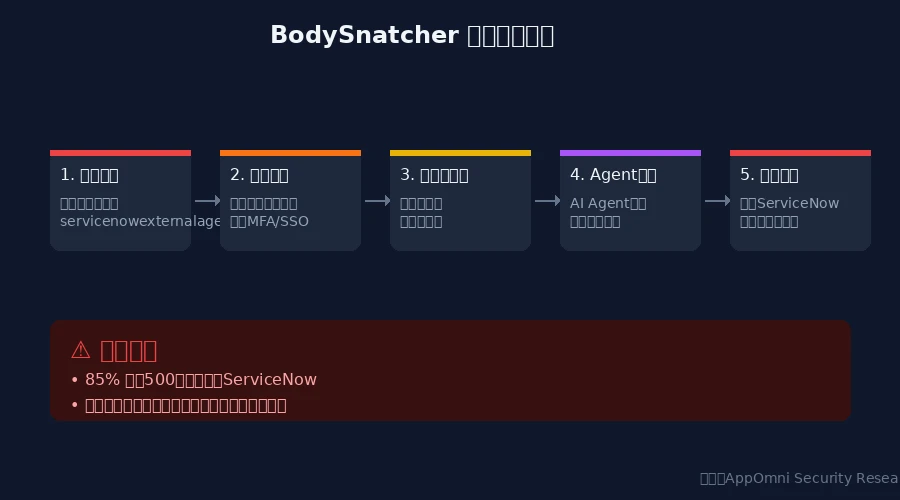
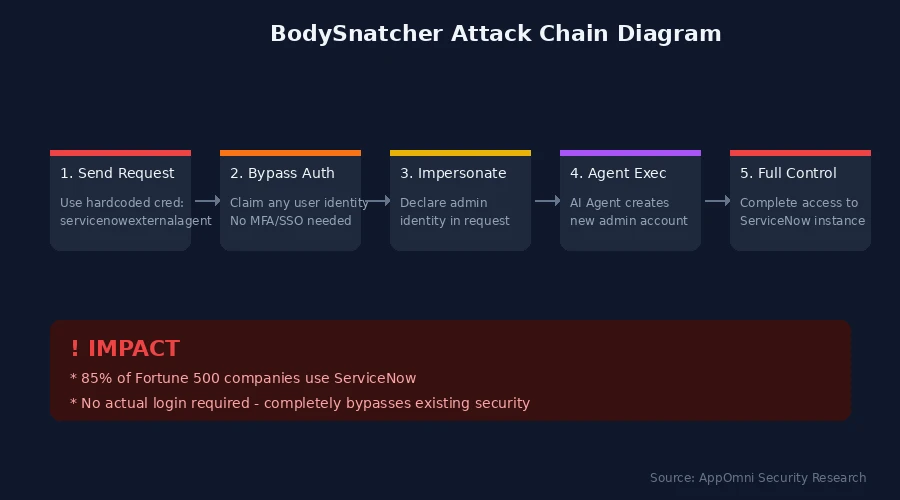
fix: Update article images to use English text
Replace Chinese text with English in all 4 inline images to avoid
character encoding issues:
- BodySnatcher Attack Chain Diagram
- CrowdStrike AI Agent Security Strategy
- Google Universal Commerce Protocol
- AI Agent: Security vs Commerce

diff --git a/scripts/generate_article_images.py b/scripts/generate_article_images.py
@@ -1,5 +1,5 @@
 #!/usr/bin/env python3
-"""Generate inline images for the AI Agent Security & Commerce article."""
+"""Generate inline images for the AI Agent Security & Commerce article - English version."""
 
 from PIL import Image, ImageDraw, ImageFont
 import os
@@ -34,20 +34,20 @@ def create_attack_chain_image():
     img = Image.new('RGB', (width, height), (15, 23, 42))
     draw = ImageDraw.Draw(img)
 
-    font_title = get_font(24)
-    font_text = get_font_regular(16)
-    font_small = get_font_regular(14)
+    font_title = get_font(22)
+    font_text = get_font_regular(14)
+    font_small = get_font_regular(12)
 
     # Title
-    draw.text((width // 2 - 180, 20), "BodySnatcher 攻击链示意图", font=font_title, fill=(241, 245, 249))
+    draw.text((width // 2 - 180, 20), "BodySnatcher Attack Chain Diagram", font=font_title, fill=(241, 245, 249))
 
     # Attack steps - boxes
     steps = [
-        ("1. 发送请求", "使用硬编码凭证\nservicenowexternalagent", (239, 68, 68)),
-        ("2. 绕过认证", "声明任意用户身份\n无需MFA/SSO", (249, 115, 22)),
-        ("3. 冒充管理员", "请求中声明\n管理员身份", (234, 179, 8)),
-        ("4. Agent执行", "AI Agent创建\n新管理员账户", (168, 85, 247)),
-        ("5. 完全控制", "获得ServiceNow\n实例完全访问权", (239, 68, 68)),
+        ("1. Send Request", "Use hardcoded cred:\nservicenowexternalagent", (239, 68, 68)),
+        ("2. Bypass Auth", "Claim any user identity\nNo MFA/SSO needed", (249, 115, 22)),
+        ("3. Impersonate", "Declare admin\nidentity in request", (234, 179, 8)),
+        ("4. Agent Exec", "AI Agent creates\nnew admin account", (168, 85, 247)),
+        ("5. Full Control", "Complete access to\nServiceNow instance", (239, 68, 68)),
     ]
 
     box_width = 140
@@ -80,12 +80,12 @@ def create_attack_chain_image():
     # Warning box at bottom
     warning_y = 320
     draw_rounded_rect(draw, [50, warning_y, width - 50, warning_y + 100], 10, (55, 17, 17))
-    draw.text((70, warning_y + 15), "⚠ 影响范围", font=font_title, fill=(239, 68, 68))
-    draw.text((70, warning_y + 50), "• 85% 财富500强企业使用ServiceNow", font=font_text, fill=(252, 165, 165))
-    draw.text((70, warning_y + 75), "• 整个过程无需实际登录，完全绕过现有安全机制", font=font_text, fill=(252, 165, 165))
+    draw.text((70, warning_y + 15), "! IMPACT", font=font_title, fill=(239, 68, 68))
+    draw.text((70, warning_y + 50), "* 85% of Fortune 500 companies use ServiceNow", font=font_text, fill=(252, 165, 165))
+    draw.text((70, warning_y + 75), "* No actual login required - completely bypasses existing security", font=font_text, fill=(252, 165, 165))
 
     # Footer
-    draw.text((width - 200, height - 30), "来源：AppOmni Security Research", font=font_small, fill=(100, 116, 139))
+    draw.text((width - 250, height - 30), "Source: AppOmni Security Research", font=font_small, fill=(100, 116, 139))
 
     return img
 
@@ -95,13 +95,12 @@ def create_crowdstrike_acquisition_image():
     img = Image.new('RGB', (width, height), (15, 23, 42))
     draw = ImageDraw.Draw(img)
 
-    font_title = get_font(24)
+    font_title = get_font(22)
     font_text = get_font_regular(16)
     font_small = get_font_regular(14)
-    font_large = get_font(32)
 
     # Title
-    draw.text((width // 2 - 180, 20), "CrowdStrike AI Agent 安全战略", font=font_title, fill=(241, 245, 249))
+    draw.text((width // 2 - 180, 20), "CrowdStrike AI Agent Security Strategy", font=font_title, fill=(241, 245, 249))
 
     # Center: CrowdStrike
     cx, cy = width // 2, height // 2
@@ -113,9 +112,9 @@ def create_crowdstrike_acquisition_image():
     sgnl_x, sgnl_y = 150, cy
     draw_rounded_rect(draw, [sgnl_x - 80, sgnl_y - 60, sgnl_x + 80, sgnl_y + 60], 10, (30, 58, 138))
     draw.text((sgnl_x - 30, sgnl_y - 45), "SGNL", font=font_title, fill=(96, 165, 250))
-    draw.text((sgnl_x - 55, sgnl_y - 15), "$7.4亿", font=font_text, fill=(191, 219, 254))
-    draw.text((sgnl_x - 60, sgnl_y + 10), "持续身份授权", font=font_small, fill=(148, 163, 184))
-    draw.text((sgnl_x - 60, sgnl_y + 30), "实时风险评估", font=font_small, fill=(148, 163, 184))
+    draw.text((sgnl_x - 40, sgnl_y - 15), "$740M", font=font_text, fill=(191, 219, 254))
+    draw.text((sgnl_x - 70, sgnl_y + 10), "Continuous Identity", font=font_small, fill=(148, 163, 184))
+    draw.text((sgnl_x - 70, sgnl_y + 30), "Real-time Risk Eval", font=font_small, fill=(148, 163, 184))
     # Arrow
     draw.line([(sgnl_x + 80, sgnl_y), (cx - 80, cy)], fill=(96, 165, 250), width=2)
 
@@ -123,23 +122,23 @@ def create_crowdstrike_acquisition_image():
     ser_x, ser_y = width - 150, cy
     draw_rounded_rect(draw, [ser_x - 80, ser_y - 60, ser_x + 80, ser_y + 60], 10, (22, 78, 99))
     draw.text((ser_x - 45, ser_y - 45), "Seraphic", font=font_title, fill=(34, 211, 238))
-    draw.text((ser_x - 35, ser_y - 15), "$4亿", font=font_text, fill=(165, 243, 252))
-    draw.text((ser_x - 65, ser_y + 10), "浏览器运行时安全", font=font_small, fill=(148, 163, 184))
-    draw.text((ser_x - 45, ser_y + 30), "企业浏览器", font=font_small, fill=(148, 163, 184))
+    draw.text((ser_x - 40, ser_y - 15), "$400M", font=font_text, fill=(165, 243, 252))
+    draw.text((ser_x - 70, ser_y + 10), "Browser Runtime Sec", font=font_small, fill=(148, 163, 184))
+    draw.text((ser_x - 65, ser_y + 30), "Enterprise Browser", font=font_small, fill=(148, 163, 184))
     # Arrow
     draw.line([(ser_x - 80, ser_y), (cx + 80, cy)], fill=(34, 211, 238), width=2)
 
     # Total at top
     draw_rounded_rect(draw, [cx - 100, 70, cx + 100, 120], 10, (55, 65, 81))
-    draw.text((cx - 80, 80), "总投资: $11.4亿", font=font_text, fill=(241, 245, 249))
+    draw.text((cx - 80, 80), "Total: $1.14 Billion", font=font_text, fill=(241, 245, 249))
     draw.line([(cx, 120), (cx, cy - 80)], fill=(100, 116, 139), width=2)
 
     # Strategic goal at bottom
-    draw_rounded_rect(draw, [200, height - 120, width - 200, height - 40], 10, (30, 41, 59))
-    draw.text((220, height - 105), "战略目标：", font=font_text, fill=(249, 115, 22))
-    draw.text((320, height - 105), "保护每一个AI Agent身份", font=font_text, fill=(241, 245, 249))
-    draw.text((220, height - 75), '"AI Agent以超人速度运行，每个Agent都是特权身份"', font=font_small, fill=(148, 163, 184))
-    draw.text((570, height - 55), "— George Kurtz, CEO", font=font_small, fill=(100, 116, 139))
+    draw_rounded_rect(draw, [150, height - 120, width - 150, height - 40], 10, (30, 41, 59))
+    draw.text((170, height - 105), "Strategic Goal:", font=font_text, fill=(249, 115, 22))
+    draw.text((320, height - 105), "Protect Every AI Agent Identity", font=font_text, fill=(241, 245, 249))
+    draw.text((170, height - 75), '"AI agents operate at superhuman speed - every agent is a privileged identity"', font=font_small, fill=(148, 163, 184))
+    draw.text((570, height - 55), "- George Kurtz, CEO", font=font_small, fill=(100, 116, 139))
 
     return img
 
@@ -149,7 +148,7 @@ def create_ucp_architecture_image():
     img = Image.new('RGB', (width, height), (15, 23, 42))
     draw = ImageDraw.Draw(img)
 
-    font_title = get_font(24)
+    font_title = get_font(22)
     font_text = get_font_regular(16)
     font_small = get_font_regular(14)
 
@@ -159,13 +158,13 @@ def create_ucp_architecture_image():
     # User at top
     user_x, user_y = width // 2, 90
     draw.ellipse([user_x - 25, user_y - 25, user_x + 25, user_y + 25], fill=(34, 197, 94))
-    draw.text((user_x - 20, user_y + 30), "用户", font=font_small, fill=(134, 239, 172))
+    draw.text((user_x - 20, user_y + 30), "User", font=font_small, fill=(134, 239, 172))
 
     # AI Agent layer
     agent_y = 170
     draw_rounded_rect(draw, [width // 2 - 100, agent_y, width // 2 + 100, agent_y + 50], 10, (88, 28, 135))
     draw.text((width // 2 - 45, agent_y + 12), "AI Agent", font=font_text, fill=(232, 121, 249))
-    draw.text((width // 2 - 85, agent_y + 32), "(Gemini / 第三方)", font=font_small, fill=(216, 180, 254))
+    draw.text((width // 2 - 70, agent_y + 32), "(Gemini / 3rd Party)", font=font_small, fill=(216, 180, 254))
 
     # Arrow from user to agent
     draw.line([(user_x, user_y + 25), (user_x, agent_y)], fill=(100, 116, 139), width=2)
@@ -173,8 +172,8 @@ def create_ucp_architecture_image():
     # UCP Protocol layer
     ucp_y = 260
     draw_rounded_rect(draw, [100, ucp_y, width - 100, ucp_y + 60], 10, (30, 64, 175))
-    draw.text((width // 2 - 150, ucp_y + 8), "Universal Commerce Protocol (UCP)", font=font_title, fill=(96, 165, 250))
-    draw.text((width // 2 - 120, ucp_y + 35), "标准化 AI 购物接口协议", font=font_small, fill=(191, 219, 254))
+    draw.text((width // 2 - 180, ucp_y + 8), "Universal Commerce Protocol (UCP)", font=font_title, fill=(96, 165, 250))
+    draw.text((width // 2 - 130, ucp_y + 35), "Standardized AI Shopping Interface", font=font_small, fill=(191, 219, 254))
 
     # Arrow
     draw.line([(width // 2, agent_y + 50), (width // 2, ucp_y)], fill=(100, 116, 139), width=2)
@@ -212,10 +211,10 @@ def create_ucp_architecture_image():
         draw.text((x + 60 - len(name) * 4, pay_y + 8), name, font=font_small, fill=(148, 163, 184))
 
     # AP2 label
-    draw.text((120, pay_y + 10), "AP2 →", font=font_small, fill=(34, 197, 94))
+    draw.text((120, pay_y + 10), "AP2 ->", font=font_small, fill=(34, 197, 94))
 
     # Market size note
-    draw.text((width - 220, height - 30), "市场规模: $3-5万亿 (2030)", font=font_small, fill=(34, 197, 94))
+    draw.text((width - 250, height - 30), "Market Size: $3-5 Trillion (2030)", font=font_small, fill=(34, 197, 94))
 
     return img
 
@@ -225,26 +224,26 @@ def create_security_vs_commerce_image():
     img = Image.new('RGB', (width, height), (15, 23, 42))
     draw = ImageDraw.Draw(img)
 
-    font_title = get_font(28)
-    font_text = get_font_regular(16)
-    font_small = get_font_regular(14)
+    font_title = get_font(24)
+    font_text = get_font_regular(15)
+    font_small = get_font_regular(13)
 
     # Title
-    draw.text((width // 2 - 180, 20), "AI Agent: 安全与商业的博弈", font=font_title, fill=(241, 245, 249))
+    draw.text((width // 2 - 180, 20), "AI Agent: Security vs Commerce", font=font_title, fill=(241, 245, 249))
 
     # Dividing line
     draw.line([(width // 2, 70), (width // 2, height - 50)], fill=(55, 65, 81), width=2)
 
     # Left side - Security (Red)
     left_x = width // 4
-    draw.text((left_x - 60, 80), "🔴 安全风险", font=font_title, fill=(239, 68, 68))
+    draw.text((left_x - 80, 80), "SECURITY RISKS", font=font_title, fill=(239, 68, 68))
 
     security_items = [
-        "• ServiceNow漏洞影响85%财富500强",
-        "• Agent权限绕过IAM控制",
-        "• 提示注入攻击难以防范",
-        "• Agent身份难以追踪审计",
-        "• 94%企业担忧AI安全",
+        "* ServiceNow CVE affects 85% Fortune 500",
+        "* Agent permissions bypass IAM controls",
+        "* Prompt injection attacks hard to prevent",
+        "* Agent identity difficult to audit",
+        "* 94% enterprises worry about AI security",
     ]
 
     for i, item in enumerate(security_items):
@@ -252,19 +251,19 @@ def create_security_vs_commerce_image():
 
     # CrowdStrike response
     draw_rounded_rect(draw, [50, 350, width // 2 - 30, 420], 10, (55, 17, 17))
-    draw.text((70, 360), "应对策略：", font=font_text, fill=(239, 68, 68))
-    draw.text((70, 385), "CrowdStrike $11.4亿布局Agent安全", font=font_small, fill=(252, 165, 165))
+    draw.text((70, 360), "Response:", font=font_text, fill=(239, 68, 68))
+    draw.text((70, 385), "CrowdStrike $1.14B Agent Security Push", font=font_small, fill=(252, 165, 165))
 
     # Right side - Commerce (Blue)
     right_x = 3 * width // 4
-    draw.text((right_x - 60, 80), "🔵 商业机遇", font=font_title, fill=(59, 130, 246))
+    draw.text((right_x - 100, 80), "BUSINESS OPPORTUNITY", font=font_title, fill=(59, 130, 246))
 
     commerce_items = [
-        "• Google UCP开放标准发布",
-        "• 3-5万亿美元市场规模",
-        "• Meta $20亿收购Manus",
-        "• 企业AI投资翻倍",
-        "• 90%高管期待Agent回报",
+        "* Google UCP open standard launched",
+        "* $3-5 Trillion market potential",
+        "* Meta acquires Manus for $2B",
+        "* Enterprise AI spending doubles",
+        "* 90% execs expect Agent ROI",
     ]
 
     for i, item in enumerate(commerce_items):
@@ -272,8 +271,8 @@ def create_security_vs_commerce_image():
 
     # Opportunity highlight
     draw_rounded_rect(draw, [width // 2 + 30, 350, width - 50, 420], 10, (23, 37, 84))
-    draw.text((width // 2 + 50, 360), "市场信号：", font=font_text, fill=(59, 130, 246))
-    draw.text((width // 2 + 50, 385), "2026年是AI Agent从Demo到落地的关键年", font=font_small, fill=(191, 219, 254))
+    draw.text((width // 2 + 50, 360), "Market Signal:", font=font_text, fill=(59, 130, 246))
+    draw.text((width // 2 + 50, 385), "2026: AI Agents move from demo to production", font=font_small, fill=(191, 219, 254))
 
     return img
 
